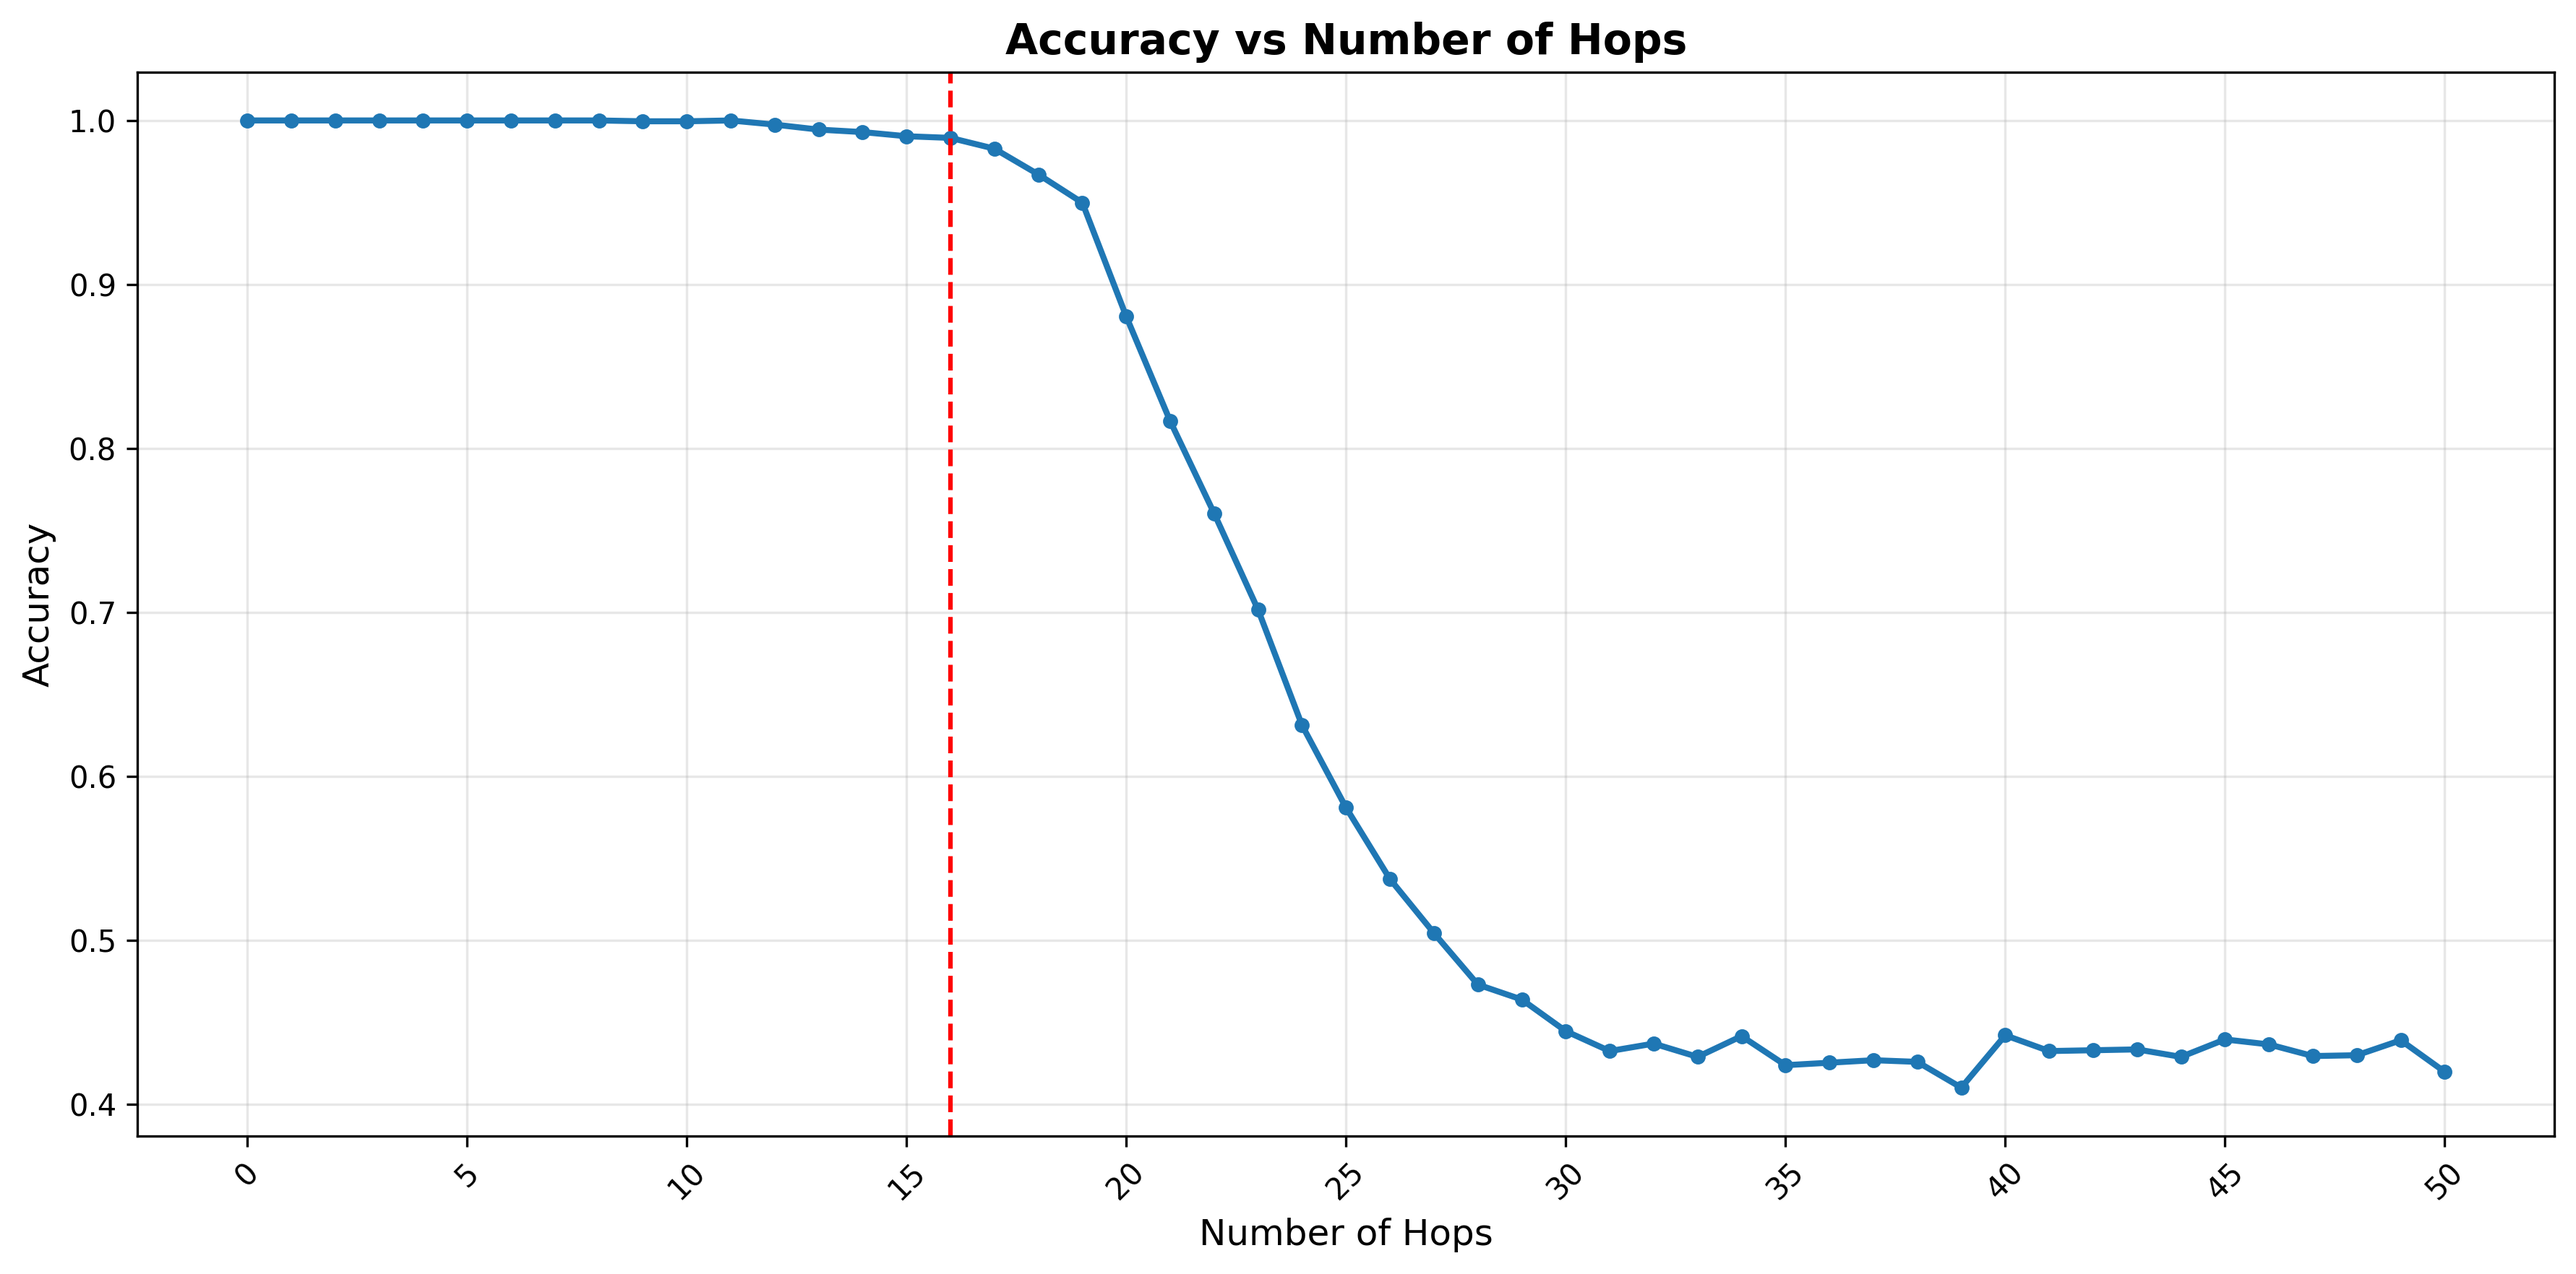
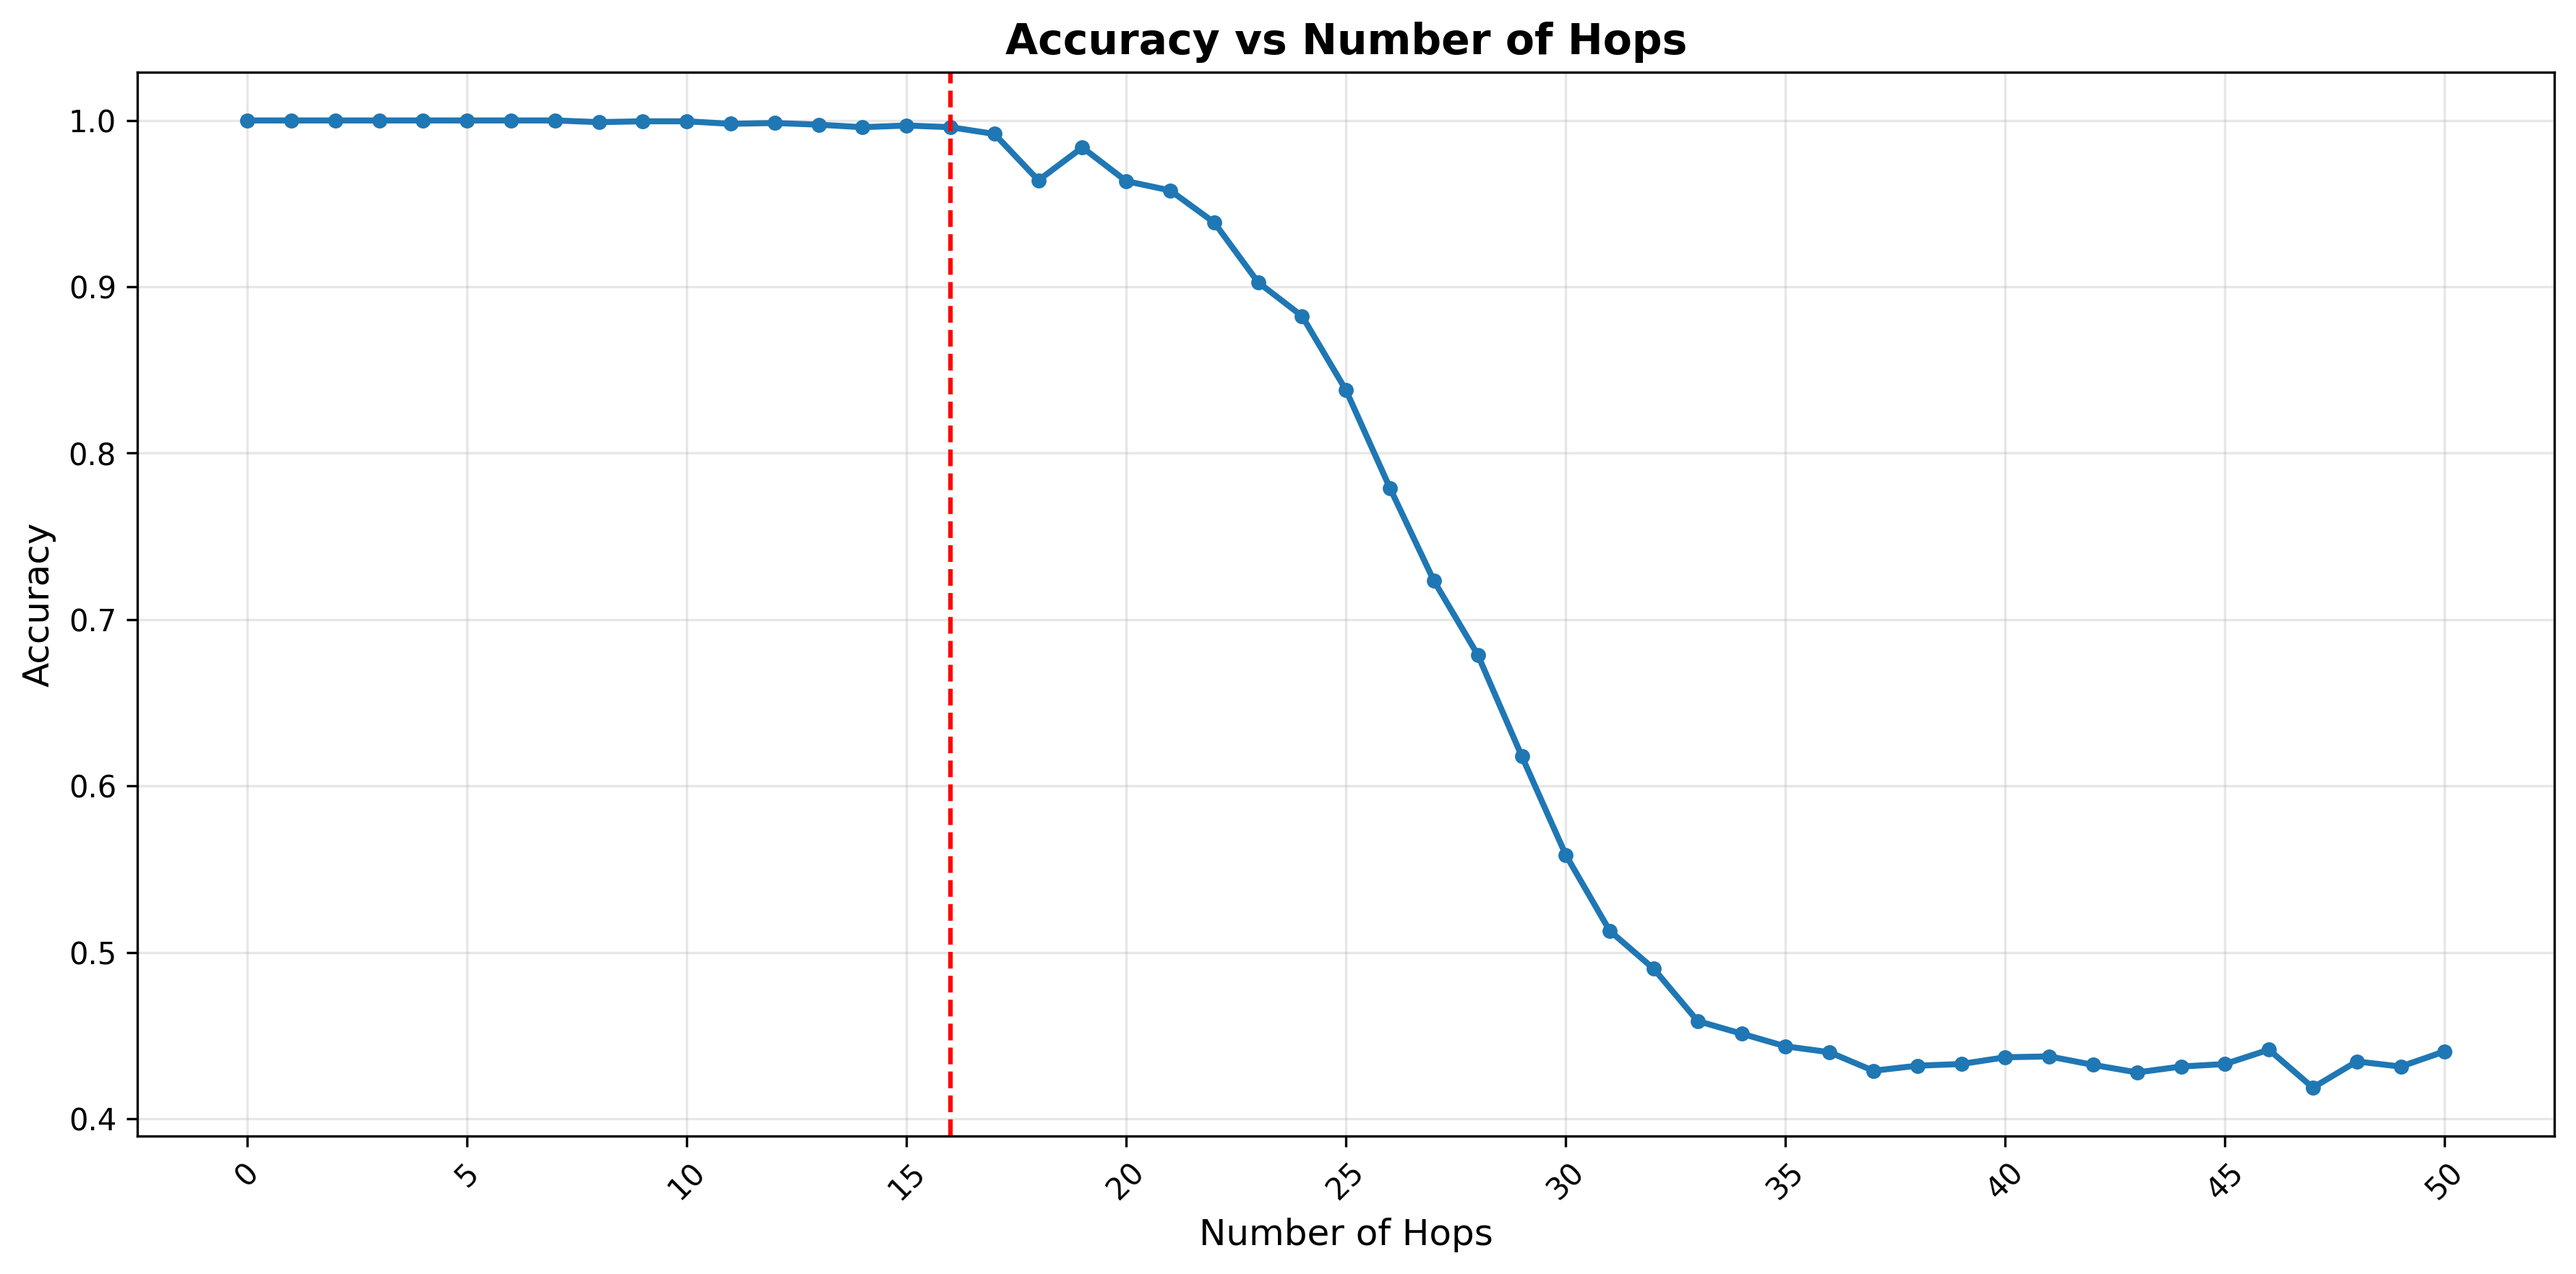
update

diff --git a/nanoGPT/config/train_phop_16_looped.py b/nanoGPT/config/train_phop_16_looped.py
@@ -2,19 +2,20 @@
 # good for debugging and playing on macbooks and such
 init_from = 'scratch_loop' # 'scratch' or 'resume' or 'gpt2*' or 'scratch_loop'
 out_dir = 'out-phop-16-looped'
-model_output_name = 'ckpt_1_2_6.pt' # ckpt_<base_block_size>_<loop_start>_<num_loops>.pt
+model_output_name = 'ckpt_1_6_12.pt' # ckpt_<base_block_size>_<loop_start>_<num_loops>.pt
 eval_interval = 1000 # keep frequent because we'll overfit
 eval_iters = 200
 log_interval = 100 # don't print too too often
 
 # system
-device = 'cuda:1'
+device = 'cuda'
+compile = False # do not torch compile the model
 # we expect to overfit on this small dataset, so only save when val improves
 always_save_checkpoint = False
 
 wandb_log = False # override via command line if you like
 wandb_project = 'phop-16'
-wandb_run_name = 'phop-16-4M-looped_1_2_6'
+wandb_run_name = 'phop-16-4M-looped_1_6_12' # <base_block_size>_<loop_start>_<num_loops>.pt
 
 dataset = 'phop-16'
 gradient_accumulation_steps = 1
@@ -24,22 +25,25 @@ block_size = 277 # context of up to 278 previous characters
 # baby GPT model :)
 n_layer = 1
 n_head = 6
-n_embd = 384
+n_embd = 768
 dropout = 0.2
 
 # Loop config
-num_loops = 6
-loop_start = 2
+num_loops = 12
+loop_start = 6
 loop_func = 'z=f(x+z)'
 
-learning_rate = 1e-3 # with baby networks can afford to go a bit higher
-max_iters = 20000
-lr_decay_iters = max_iters # make equal to max_iters usually
-min_lr = 1e-6 # learning_rate / 10 usually
-beta2 = 0.99 # make a bit bigger because number of tokens per iter is small
-
+# adamw optimizer
+learning_rate = 6e-4 # max learning rate
+max_iters = 60000 # total number of training iterations
+weight_decay = 1e-1
+beta1 = 0.9
+beta2 = 0.95
+grad_clip = 1.0 # clip gradients at this value, or disable if == 0.0
 warmup_iters = 100 # not super necessary potentially
 
-# on macbook also add
-# device = 'cpu'  # run on cpu only
-# compile = False # do not torch compile the model
+# learning rate decay settings
+decay_lr = True # whether to decay the learning rate
+warmup_iters = 2000 # how many steps to warm up for
+lr_decay_iters = max_iters # should be ~= max_iters per Chinchilla
+min_lr = 6e-5 # minimum learning rate, should be ~= learning_rate/10 per Chinchilla

diff --git a/nanoGPT/eval_phop.py b/nanoGPT/eval_phop.py
@@ -7,12 +7,12 @@ import os
 import pickle
 from contextlib import nullcontext
 import torch
-from model import GPTConfig, GPT
+from model import GPTConfig, GPT, GPTLooped
 
 # -----------------------------------------------------------------------------
 init_from = 'resume' # either 'resume' (from an out_dir) or a gpt2 variant (e.g. 'gpt2-xl')
 out_dir = 'out-phop-16' # ignored if init_from is not 'resume'
-model_output_name = 'ckpt_6_6.pt'
+model_output_name = 'ckpt_12_12.pt'
 start = "\n" # or "<|endoftext|>" or etc. Can also specify a file, use as: "FILE:prompt.txt"
 num_samples = 1 # number of samples to draw
 max_new_tokens = 80 # number of tokens generated in each sample
@@ -22,6 +22,10 @@ seed = 1337
 device = 'cuda:1' # examples: 'cpu', 'cuda', 'cuda:0', 'cuda:1', etc.
 dtype = 'bfloat16' if torch.cuda.is_available() and torch.cuda.is_bf16_supported() else 'float16' # 'float32' or 'bfloat16' or 'float16'
 compile = False # use PyTorch 2.0 to compile the model to be faster
+# Loop config
+num_loops = 2
+loop_start = 0
+loop_func = 'z=f(x+z)'
 exec(open('configurator.py').read()) # overrides from command line or config file
 # -----------------------------------------------------------------------------
 
@@ -39,7 +43,9 @@ if init_from == 'resume':
     ckpt_path = os.path.join(out_dir, model_output_name)
     checkpoint = torch.load(ckpt_path, map_location=device)
     gptconf = GPTConfig(**checkpoint['model_args'])
-    model = GPT(gptconf)
+    print("checkpoint model args:", checkpoint['model_args'])
+    print("looped model:", 'looped' in out_dir)
+    model = GPTLooped(gptconf, num_loops=num_loops, loop_start=loop_start, loop_func=loop_func) if 'looped' in out_dir else GPT(gptconf)
     state_dict = checkpoint['model']
     unwanted_prefix = '_orig_mod.'
     for k,v in list(state_dict.items()):

diff --git a/nanoGPT/config/train_phop_16.py b/nanoGPT/config/train_phop_16.py
@@ -2,7 +2,7 @@
 # good for debugging and playing on macbooks and such
 init_from = 'scratch' # 'scratch' or 'resume' or 'gpt2*' or 'scratch_loop'
 out_dir = 'out-phop-16'
-model_output_name = 'ckpt_6_6.pt' # ckpt_<base_block_size>_<loop_start>_<num_loops>.pt
+model_output_name = 'ckpt_1_16_2048.pt' # ckpt_<base_block_size>_<loop_start>_<num_loops>.pt
 eval_interval = 1000 # keep frequent because we'll overfit
 eval_iters = 200
 log_interval = 100 # don't print too too often
@@ -12,7 +12,7 @@ always_save_checkpoint = False
 
 wandb_log = True # override via command line if you like
 wandb_project = 'phop-16'
-wandb_run_name = 'phop-16-4M-6_6_768'
+wandb_run_name = 'phop-16-4M-1_16_2048'
 
 dataset = 'phop-16'
 gradient_accumulation_steps = 1
@@ -20,9 +20,9 @@ batch_size = 256
 block_size = 277 # context of up to 278 previous characters
 
 # baby GPT model :)
-n_layer = 6
-n_head = 6
-n_embd = 768
+n_layer = 1
+n_head = 16
+n_embd = 2048
 dropout = 0.0
 
 # adamw optimizer

diff --git a/nanoGPT/train.py b/nanoGPT/train.py
@@ -81,7 +81,7 @@ backend = 'nccl' # 'nccl', 'gloo', etc.
 # system
 device = 'cuda' # examples: 'cpu', 'cuda', 'cuda:0', 'cuda:1' etc., or try 'mps' on macbooks
 dtype = 'bfloat16' if torch.cuda.is_available() and torch.cuda.is_bf16_supported() else 'float16' # 'float32', 'bfloat16', or 'float16', the latter will auto implement a GradScaler
-compile = True # use PyTorch 2.0 to compile the model to be faster
+compile = False # use PyTorch 2.0 to compile the model to be faster
 # -----------------------------------------------------------------------------
 config_keys = [k for k,v in globals().items() if not k.startswith('_') and isinstance(v, (int, float, bool, str))]
 exec(open('configurator.py').read()) # overrides from command line or config file
